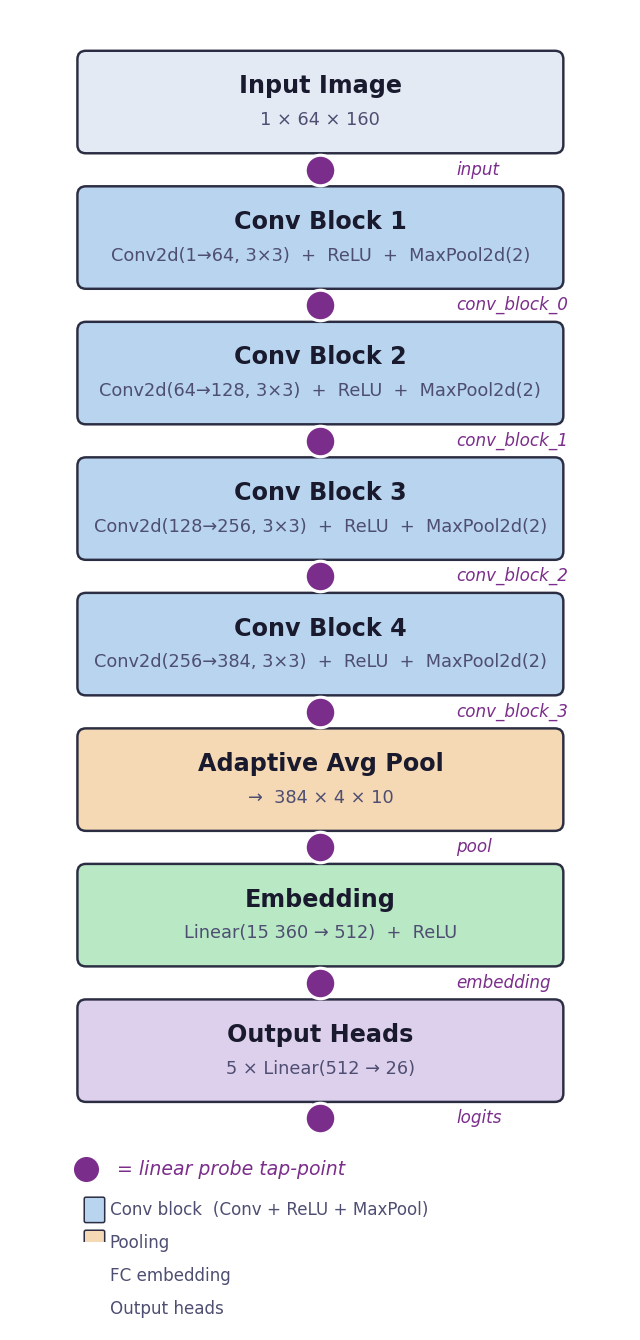
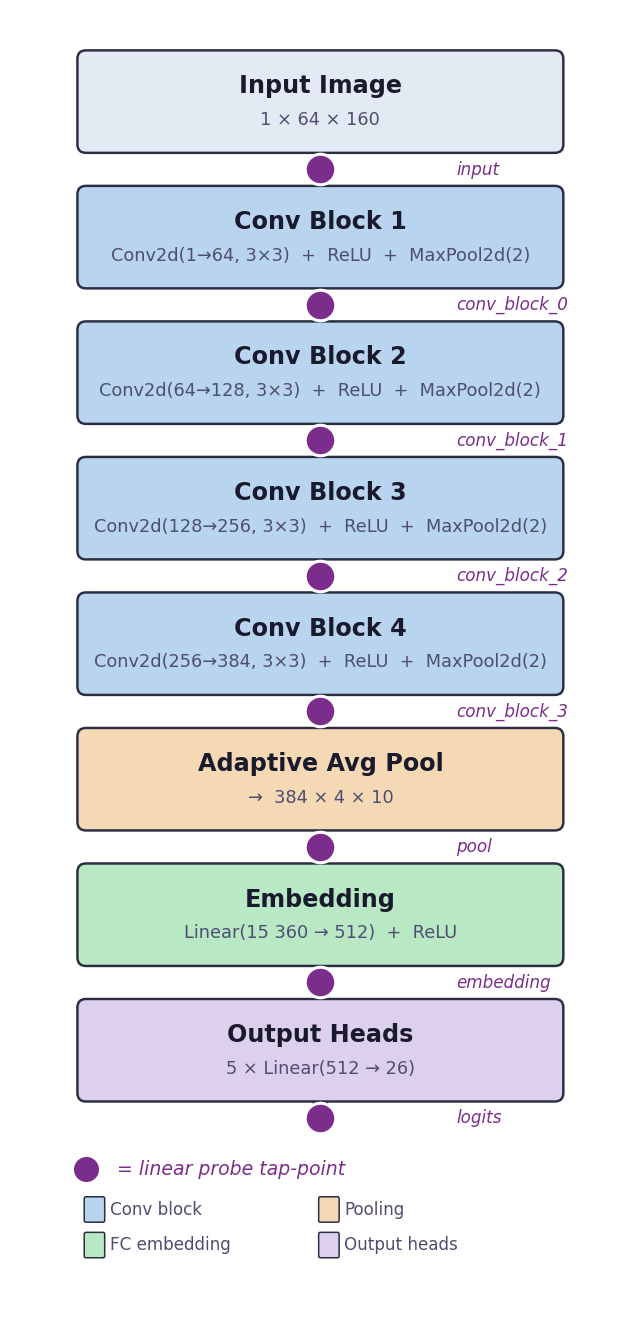
auto-commit

diff --git a/dataset-generation/make_arch_diagram.py b/dataset-generation/make_arch_diagram.py
@@ -153,47 +153,6 @@ for i in range(N):
             ha="left", va="center", fontsize=5.5, color=C["probe"],
             fontstyle="italic", zorder=5)
 
-# ── Legend ────────────────────────────────────────────────────────────────────
-last_probe_y = box_top(N - 1) - BOX_H - GAP / 2
-legend_y = last_probe_y - 0.30
-
-dot_x = CX - BOX_W / 2
-ax.plot(dot_x, legend_y, "o",
-        ms=PROBE_MS * 0.9, color=C["probe"],
-        mec="white", mew=0.8, zorder=5)
-ax.text(dot_x + 0.18, legend_y,
-        "= linear probe tap-point",
-        ha="left", va="center", fontsize=6.2,
-        color=C["probe"], fontstyle="italic")
-
-# ── Colour legend (layer types) — 2 × 2 grid, horizontal pairs ───────────────
-swatch_items = [
-    (C["conv_c"],  "Conv block"),
-    (C["pool_c"],  "Pooling"),
-    (C["embed_c"], "FC embedding"),
-    (C["out_c"],   "Output heads"),
-]
-col_gap   = BOX_W / 2        # horizontal distance between left edges of the two columns
-sw_w, sw_h = 0.10, 0.13
-sw_dx = 0.14                 # text offset from swatch left edge
-row_gap = 0.21               # vertical distance between row centres
-
-sx0 = CX - BOX_W / 2        # left edge of left column
-sx1 = sx0 + col_gap          # left edge of right column
-
-for j, (col, label) in enumerate(swatch_items):
-    col_idx = j % 2
-    row_idx = j // 2
-    sx = sx0 if col_idx == 0 else sx1
-    sy = legend_y - 0.24 - row_idx * row_gap
-
-    ax.add_patch(mpatches.FancyBboxPatch(
-        (sx, sy - sw_h / 2), sw_w, sw_h,
-        boxstyle="round,pad=0.01",
-        facecolor=col, edgecolor=C["border"], linewidth=0.5, zorder=4,
-    ))
-    ax.text(sx + sw_dx, sy, label,
-            ha="left", va="center", fontsize=5.5, color=C["sub"])
 
 fig.savefig(OUT, dpi=220, bbox_inches="tight", facecolor=C["bg"])
 plt.close(fig)
